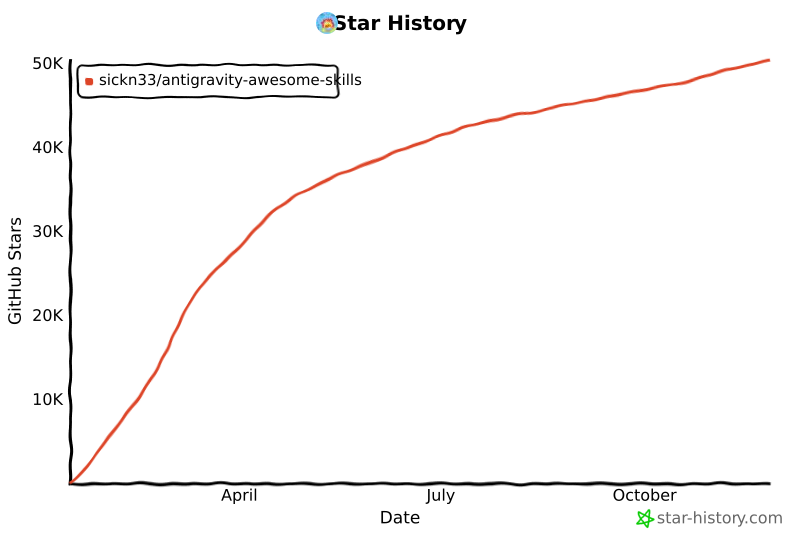
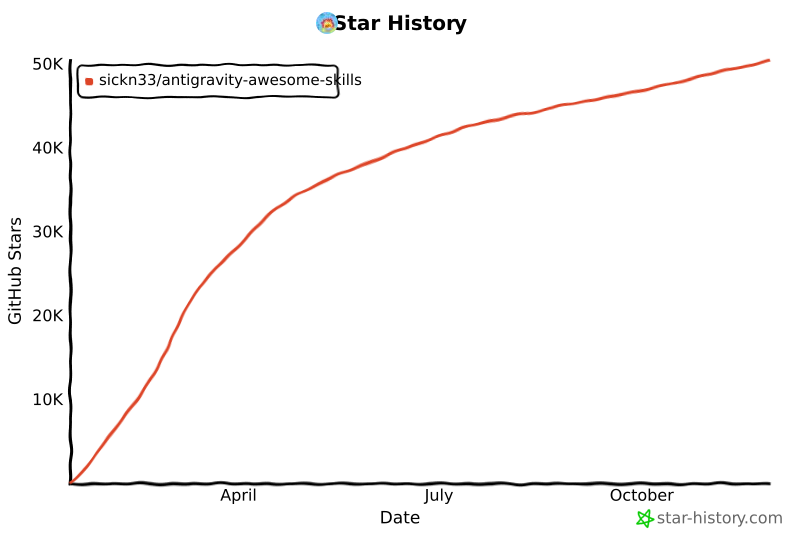
chore: update star history chart

diff --git a/README.md b/README.md
@@ -487,14 +487,14 @@ We officially thank the following contributors for their help in making this rep
 ## Star History
 
 <a href="https://www.star-history.com/#sickn33/antigravity-awesome-skills&type=date&legend=top-left">
- <img alt="Star History Chart" src="https://api.star-history.com/svg?repos=sickn33/antigravity-awesome-skills&type=date&legend=top-left&cache_bust=202611271543" />
+ <img alt="Star History Chart" src="https://api.star-history.com/svg?repos=sickn33/antigravity-awesome-skills&type=date&legend=top-left&cache_bust=202611281439" />
 </a>
 
 <a href="https://www.star-history.com/sickn33/antigravity-awesome-skills">
  <picture>
-   <source media="(prefers-color-scheme: dark)" srcset="https://api.star-history.com/chart?repos=sickn33/antigravity-awesome-skills&style=landscape1&theme=dark&cache_bust=202611271543" />
-   <source media="(prefers-color-scheme: light)" srcset="https://api.star-history.com/chart?repos=sickn33/antigravity-awesome-skills&style=landscape1&cache_bust=202611271543" />
-   <img alt="Star History Chart" src="https://api.star-history.com/chart?repos=sickn33/antigravity-awesome-skills&style=landscape1&cache_bust=202611271543" />
+   <source media="(prefers-color-scheme: dark)" srcset="https://api.star-history.com/chart?repos=sickn33/antigravity-awesome-skills&style=landscape1&theme=dark&cache_bust=202611281439" />
+   <source media="(prefers-color-scheme: light)" srcset="https://api.star-history.com/chart?repos=sickn33/antigravity-awesome-skills&style=landscape1&cache_bust=202611281439" />
+   <img alt="Star History Chart" src="https://api.star-history.com/chart?repos=sickn33/antigravity-awesome-skills&style=landscape1&cache_bust=202611281439" />
  </picture>
 </a>
 
